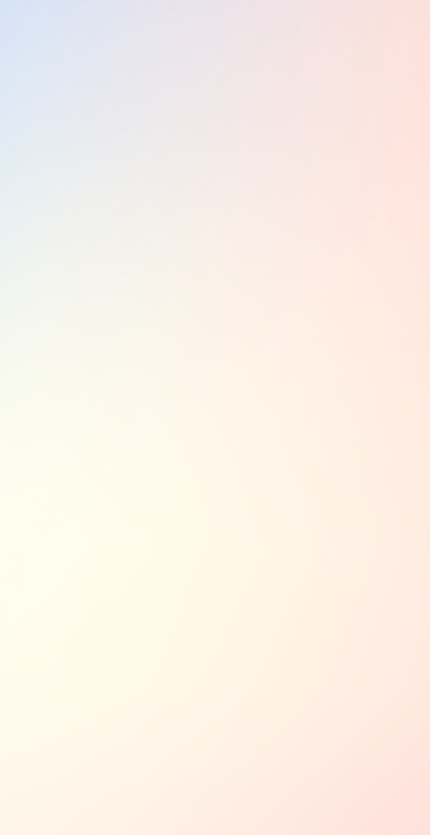
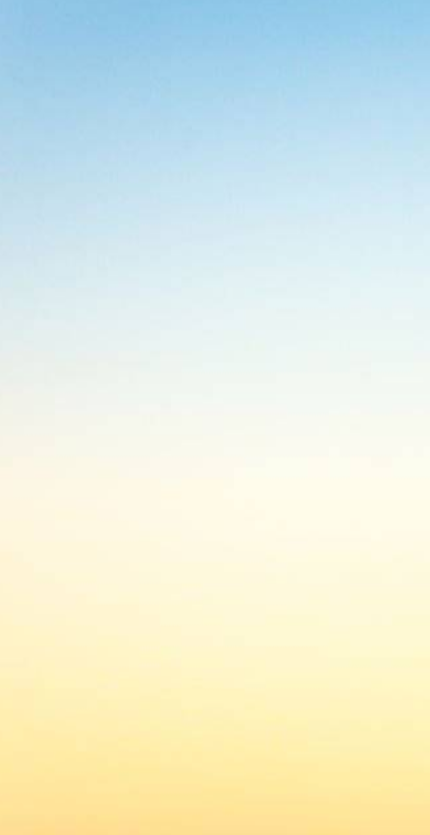
design updated

diff --git a/frontend/mgramseva/lib/widgets/pagination.dart b/frontend/mgramseva/lib/widgets/pagination.dart
@@ -68,7 +68,8 @@ class _PaginationState extends State<Pagination> {
         children: [
           Visibility(
               visible:  widget.offSet > widget.limit,
-              child: IconButton(onPressed: widget.isDisabled ? null : () => onChangeOfPage(false), icon: Icon(Icons.arrow_left))),
+              child: IconButton(onPressed: widget.isDisabled ? null : () => onChangeOfPage(false), icon: Icon(Icons.arrow_left,color: Color(
+                  0xFF033CCF),))),
         ...isTotalCountVisible?[Text('${widget.offSet} - ${(widget.offSet + widget.limit - 1) <= widget.totalCount ? (widget.offSet + widget.limit -1) : widget.totalCount}'),
           Padding(
             padding: EdgeInsets.only(left: 14),
@@ -82,7 +83,8 @@ class _PaginationState extends State<Pagination> {
           )]:[],
           Visibility(
               visible: isTotalCountVisible?((widget.offSet + widget.limit - 1) < widget.totalCount):true,
-              child: IconButton(onPressed:  widget.isDisabled ? null : onChangeOfPage, icon:Icon(Icons.arrow_right))),
+              child: IconButton(onPressed:  widget.isDisabled ? null : onChangeOfPage, icon:Icon(Icons.arrow_right,color: Color(
+                  0xFF033CCF)))),
         ],
       ),
     );

diff --git a/frontend/mgramseva/lib/theme.dart b/frontend/mgramseva/lib/theme.dart
@@ -6,7 +6,7 @@ ThemeData get theme => ThemeData(
     hintColor: createMaterialColor(Color(0XFF3498DB)),
     primaryColorDark: Color.fromRGBO(11, 12, 12, 1),
     primaryColorLight: Color.fromRGBO(80, 90, 95, 1),
-    primaryColor: Color.fromRGBO(244, 119, 56, 1),
+    primaryColor: Color.fromRGBO(3, 60, 207, 0.9),
     disabledColor: Colors.grey,
     cardTheme: CardTheme(surfaceTintColor: Colors.white,shape: RoundedRectangleBorder(borderRadius: BorderRadius.circular(3))),
     datePickerTheme: DatePickerThemeData(
@@ -28,7 +28,7 @@ ThemeData get theme => ThemeData(
       labelMedium: TextStyle(fontWeight: FontWeight.w500, fontSize: 14, color: Colors.white), // Elevated Button(Orange)
       labelSmall: TextStyle(fontWeight: FontWeight.w500, fontSize: 10, color: Colors.white), // Elevated Button(Orange)
       titleMedium: TextStyle(fontWeight: FontWeight.w400, fontSize: 16),
-      titleSmall: TextStyle(fontWeight: FontWeight.w400, fontSize: 16, color: Color.fromRGBO(244, 119, 56, 1)) // Only for outlined button text
+      titleSmall: TextStyle(fontWeight: FontWeight.w400, fontSize: 16, color: Color.fromRGBO(0, 0, 255, 1)) // Only for outlined button text
     ),
 
     /// Background color

diff --git a/frontend/mgramseva/lib/screeens/home/home_card.dart b/frontend/mgramseva/lib/screeens/home/home_card.dart
@@ -43,9 +43,9 @@ class _HomeCard extends State<HomeCard> {
                 }
               },
             child: new Card(
-                color: Color(0xfffff6f6),
+                color: Color(0xffffffff),
                 shape: RoundedRectangleBorder(
-                    side: new BorderSide(color: Color(0xfffa7a39), width: 1),
+                    side: new BorderSide(color: Color(0xff2494d4), width: 1),
                     borderRadius: BorderRadius.circular(4.0)),
                 key: homeProvider.homeWalkthroughList
                         .where((element) => element.label == item.label)
@@ -60,7 +60,7 @@ class _HomeCard extends State<HomeCard> {
                   mainAxisAlignment: MainAxisAlignment.center,
                   crossAxisAlignment: CrossAxisAlignment.center,
                   children: [
-                    Icon(item.iconData, size: 30),
+                    Icon(item.iconData, size: 30,color: Color(0xff033ccf),),
                     Container(
                       margin: EdgeInsets.all(10),
                       child: Center(

diff --git a/frontend/mgramseva/lib/screeens/household_register/household_register.dart b/frontend/mgramseva/lib/screeens/household_register/household_register.dart
@@ -124,13 +124,13 @@ class _HouseholdRegister extends State<HouseholdRegister>
       },
       icon: Image.asset('assets/png/whats_app.png'),
       label: Text(
-          ApplicationLocalizations.of(context).translate(i18.common.SHARE)));
+          ApplicationLocalizations.of(context).translate(i18.common.SHARE), style: TextStyle(color: Color.fromRGBO(3, 60, 207, 0.7))));
 
   Widget get _buildDownload => TextButton.icon(
       onPressed: () => showDownloadList(Constants.DOWNLOAD_OPTIONS, context),
-      icon: Icon(Icons.download_sharp),
+      icon: Icon(Icons.download_sharp,color: Color.fromRGBO(3, 60, 207, 0.7),),
       label: Text(
-          ApplicationLocalizations.of(context).translate(i18.common.DOWNLOAD)));
+          ApplicationLocalizations.of(context).translate(i18.common.DOWNLOAD), style: TextStyle(color: Color.fromRGBO(3, 60, 207, 0.7)),));
 }
 
 showDownloadList(List<String> result, BuildContext context) {

diff --git a/frontend/mgramseva/lib/widgets/radio_button_field_builder.dart b/frontend/mgramseva/lib/widgets/radio_button_field_builder.dart
@@ -98,14 +98,14 @@ class RadioButtonFieldBuilder extends StatelessWidget {
                             style: TextStyle(
                                 fontWeight: FontWeight.w400,
                                 fontSize: 16,
-                                color: Theme.of(context).primaryColorDark),
+                                ),
                           ),
                           Text(isRequired ? '*' : '',
                               textAlign: TextAlign.left,
                               style: TextStyle(
                                   fontWeight: FontWeight.w400,
                                   fontSize: 16,
-                                  color: Theme.of(context).primaryColorDark)),
+                                  )),
                         ]))),
               ),
               Column(

diff --git a/frontend/mgramseva/lib/providers/bill_generation_details_provider.dart b/frontend/mgramseva/lib/providers/bill_generation_details_provider.dart
@@ -405,7 +405,8 @@ class BillGenerationProvider with ChangeNotifier {
               ?
           [TextButton(onPressed: (){
             Navigator.pop(context);
-          }, child: Text('${ApplicationLocalizations.of(context).translate(i18.consumerReciepts.CLOSE)}'))]
+          }, child: Text('${ApplicationLocalizations.of(context).translate(i18.consumerReciepts.CLOSE)}',style: TextStyle(color: Color(
+              0xff033ccf)),))]
               :
           [TextButton(onPressed: () async{
             if(rateProvider.wcBillingSlabs!.wCBillingSlabs!.where((element) => element.connectionType=='Non_Metered').length- rateProvider.wcBillingSlabs!.wCBillingSlabs!.where((element) => element.connectionType=='Non_Metered' && element.minimumCharge==0).length == 0 ){

diff --git a/frontend/mgramseva/lib/screeens/reports/bill_report.dart b/frontend/mgramseva/lib/screeens/reports/bill_report.dart
@@ -95,9 +95,9 @@ class _BillReport extends State<BillReport>
                               reportProvider.getDemandReport(download: true);
                             }
                           },
-                          icon: Icon(Icons.download_sharp),
+                          icon: Icon(Icons.download_sharp,color: Color(0xff033ccf)),
                           label: Text(ApplicationLocalizations.of(context)
-                              .translate(i18.common.CORE_DOWNLOAD))),
+                              .translate(i18.common.CORE_DOWNLOAD),style: TextStyle(color: Color(0xff033ccf)))),
                     ],
                   ),
                 ],

diff --git a/frontend/mgramseva/lib/screeens/reports/inactive_consumer_report.dart b/frontend/mgramseva/lib/screeens/reports/inactive_consumer_report.dart
@@ -91,9 +91,9 @@ class _CollectionReport extends State<InactiveConsumerReport>
                           reportProvider.getInactiveConsumerReport(download: true);
                         }
                       },
-                      icon: Icon(Icons.download_sharp),
+                      icon: Icon(Icons.download_sharp,color: Color(0xff033ccf),),
                       label: Text(ApplicationLocalizations.of(context)
-                          .translate(i18.common.CORE_DOWNLOAD)),
+                          .translate(i18.common.CORE_DOWNLOAD),style: TextStyle(color: Color(0xff033ccf)),),
                     ),
                   ],
                 ),

diff --git a/frontend/mgramseva/lib/screeens/reports/collection_report.dart b/frontend/mgramseva/lib/screeens/reports/collection_report.dart
@@ -96,9 +96,9 @@ class _CollectionReport extends State<CollectionReport>
                                   download: true);
                             }
                           },
-                          icon: Icon(Icons.download_sharp),
+                          icon: Icon(Icons.download_sharp,color: Color(0xff033ccf)),
                           label: Text(ApplicationLocalizations.of(context)
-                              .translate(i18.common.CORE_DOWNLOAD))),
+                              .translate(i18.common.CORE_DOWNLOAD),style: TextStyle(color: Color(0xff033ccf)))),
                     ],
                   ),
                 ],

diff --git a/frontend/mgramseva/lib/screeens/home/home.dart b/frontend/mgramseva/lib/screeens/home/home.dart
@@ -72,12 +72,12 @@ class _HomeState extends State<Home> {
         Container(
           decoration: BoxDecoration(
             gradient: LinearGradient(
-              begin: FractionalOffset.topLeft,
-              end: FractionalOffset.bottomRight,
+              begin: FractionalOffset.topCenter,
+              end: FractionalOffset.bottomCenter,
               colors: [
-                Color(0xffdbe4f4),
-                Color(0xfff9f3e8),
-                Color(0xfff4e4e3),
+                Color(0xff90c5e5),
+                Color(0xffeef7f2),
+                Color(0xffffeca7),
               ],
             ),
           ),

diff --git a/frontend/mgramseva/lib/widgets/button.dart b/frontend/mgramseva/lib/widgets/button.dart
@@ -15,7 +15,7 @@ class Button extends StatelessWidget {
           decoration: CommonStyles.buttonBottomDecoration,
           child: new ElevatedButton(
               style: ElevatedButton.styleFrom(
-                  minimumSize: Size(double.infinity, 50), backgroundColor: widgetFunction != null ? Color.fromRGBO(244, 119, 56, 1) : Color.fromRGBO(244, 119, 56, 0.7)
+                  minimumSize: Size(double.infinity, 50), backgroundColor:  Color.fromRGBO(3, 60, 207, 0.9)
                 // padding: EdgeInsets.all(15),
               ),
               child: new Text(ApplicationLocalizations.of(context).translate(label),

diff --git a/frontend/mgramseva/lib/components/house_connection_and_bill/house_connection_detail_card.dart b/frontend/mgramseva/lib/components/house_connection_and_bill/house_connection_detail_card.dart
@@ -153,7 +153,7 @@ class HouseConnectionDetailCard extends StatelessWidget {
                                       new Text(
                                         '\n${ApplicationLocalizations.of(context).translate(!provider.isVisible ? i18.common.SHOW_MORE : i18.common.SHOW_LESS)}',
                                         style: new TextStyle(
-                                            color: Colors.deepOrangeAccent),
+                                            color: Color(0xFF033CCF)),
                                       )
                                     ],
                                   ),
